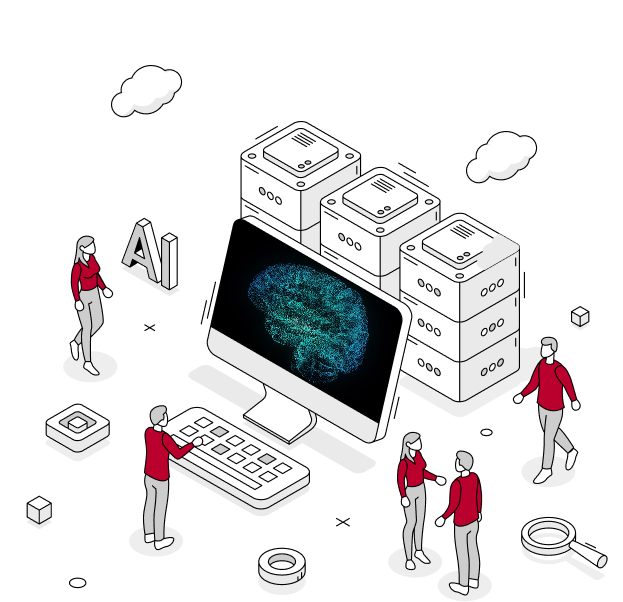
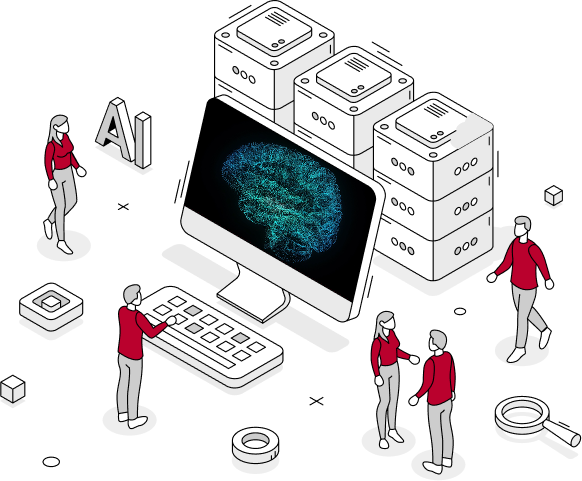
up

diff --git a/design-html/Assets/CSS/style.css b/design-html/Assets/CSS/style.css
@@ -1333,6 +1333,7 @@ a {
 
 .login-wrapper {
    z-index: 999999;
+   height: 100vh;
 }
 
 .login-wrapper .container {
@@ -1344,7 +1345,14 @@ a {
    z-index: 1;
    left: 0;
    top: 0;
-   height: 100vh;
+   height: 100%;
+}
+
+.login-wrapper .red-ab-right {
+   z-index: 1;
+   right: 0;
+   top: -40px;
+   height: 100%;
 }
 
 .login-wrapper .form-area h2 {
@@ -1375,6 +1383,12 @@ a {
    background-color: transparent;
 }
 
+.login-wrapper .form-area form .pass-field img {
+   right: 20px;
+   top: 20px;
+   cursor: pointer;
+}
+
 .login-wrapper .form-area form input::placeholder {
    font-family: Albert Sans;
    font-weight: 400;
@@ -1382,6 +1396,10 @@ a {
    line-height: 20px;
    letter-spacing: 0%;
    color: #FFD6E0;
+}
+
+.login-wrapper .form-area form .link-area .label-input {
+   gap: 13px;
 }
 
 .login-wrapper .form-area form .link-area label {
@@ -1394,8 +1412,7 @@ a {
 }
 
 .login-wrapper .form-area form .link-area input[type="checkbox"] {
-   appearance: none;
-   -webkit-appearance: none;
+   accent-color: #000;
    width: 18px;
    height: 18px;
    border: 1px solid #FFC0C0;
@@ -1403,9 +1420,172 @@ a {
    border-radius: 4px;
    cursor: pointer;
    position: relative;
+   margin: 0;
    padding: 0;
 }
 
-.login-wrapper .form-area form .link-area input[type="checkbox"]:checked{
-    accent-color: #FFC0C0;
+.login-wrapper .form-area form .link-area a {
+   font-family: Albert Sans;
+   font-weight: 400;
+   font-size: 14px;
+   line-height: 20px;
+   letter-spacing: 0%;
+   color: #FFADC0;
+}
+
+.login-wrapper .form-area form button {
+   background: #FFFFFF;
+   border-radius: 9px;
+   padding: 17px 0;
+   width: 100%;
+   border: none;
+   font-family: Mulish;
+   font-weight: 700;
+   font-size: 16px;
+   line-height: 20px;
+   letter-spacing: 0%;
+   color: #BA012D;
+   margin-bottom: 45px;
+}
+
+.login-wrapper .form-area .bottom-links {
+   gap: 6px;
+}
+
+.login-wrapper .form-area .bottom-links p {
+   font-family: Albert Sans;
+   font-weight: 400;
+   font-size: 16px;
+   line-height: 20px;
+   letter-spacing: 0%;
+   color: #FFADC0;
+   margin: 0;
+}
+
+.login-wrapper .form-area .bottom-links a {
+   font-family: Albert Sans;
+   font-weight: 700;
+   font-size: 16px;
+   line-height: 20px;
+   letter-spacing: 0%;
+   color: #FFFFFF;
+}
+
+.login-wrapper .right-wrap p {
+   font-family: Inter;
+   font-weight: 400;
+   font-size: 10px;
+   line-height: 140%;
+   letter-spacing: 0%;
+   color: #444444;
+   width: 100%;
+   display: flex;
+   justify-content: flex-end;
+   padding-top: 75px;
+   margin: 0;
+}
+
+.login-wrapper .right-wrap .main-img {
+   max-width: 580px;
+}
+
+.img-area {
+   position: relative;
+   overflow: hidden;
+   /* keeps clouds from spilling outside the artwork */
+}
+
+.cloud {
+   position: absolute;
+   width: 72px;
+   /* adjust to match cloud size in your design */
+   pointer-events: none;
+}
+
+.cloud-1 {
+   top: 0;
+   left: 60px;
+   width: 72px;
+   animation: cloud-1-slide 3s ease-in-out infinite;
+}
+
+@keyframes cloud-1-slide {
+   0% {
+      transform: translateX(0);
+      opacity: 0;
+   }
+
+   15% {
+      opacity: 1;
+   }
+
+   45% {
+      transform: translateX(100px);
+      opacity: 1;
+   }
+
+   55% {
+      transform: translateX(100px);
+      opacity: 1;
+   }
+
+   85% {
+      transform: translateX(0);
+      opacity: 0;
+   }
+
+   100% {
+      transform: translateX(0);
+      opacity: 0;
+   }
+}
+
+.cloud-2 {
+   top: 40px;
+   right: 0;
+   width: 72px;
+   animation: cloud-2-slide 3s ease-in-out infinite;
+}
+
+@keyframes cloud-2-slide {
+   0% {
+      transform: translateX(0);
+      opacity: 0;
+   }
+
+   15% {
+      opacity: 1;
+   }
+
+   45% {
+      transform: translateX(-100px);
+      opacity: 1;
+   }
+
+   55% {
+      transform: translateX(-100px);
+      opacity: 1;
+   }
+
+   85% {
+      transform: translateX(0);
+      opacity: 0;
+   }
+
+   100% {
+      transform: translateX(0);
+      opacity: 0;
+   }
+}
+
+.screen-video {
+   position: absolute;
+   top: 30%;
+   left: 31%;
+   width: 25%;
+   height: 21%;
+   object-fit: cover;
+   border-radius: 4px;
+   transform: rotate(30deg);
+   z-index: 1;
 }

diff --git a/design-html/login.html b/design-html/login.html
@@ -25,19 +25,22 @@
 </head>
 
 <body>
-    <div class="login-wrapper position-relative overflow-hidden">
+    <div class="login-wrapper position-relative">
         <img src="assets/images/ab-red.png" alt="" class="position-absolute red-ab-left">
         <div class="container position-relative">
-            <div class="row align-items-center justify-content-between">
+            <div class="row align-items-center justify-content-between vh-100">
                 <div class="col-md-3">
                     <div class="form-area">
                         <a href="#"><img src="assets/images/login-logo.png" alt=""></a>
                         <h2>Welcome back!</h2>
                         <form action="" class="d-flex flex-column">
                             <input type="text" placeholder="Email Address">
-                            <input type="password" placeholder="Password">
+                            <div class="pass-field position-relative w-100">
+                                 <input type="password" placeholder="Password" class="w-100">
+                                 <img src="assets/images/eye.png" alt="" class="position-absolute">
+                            </div>
                             <div class="link-area d-flex align-items-center justify-content-between">
-                                <div class="label-input">
+                                <div class="label-input d-flex align-items-center">
                                     <input type="checkbox">
                                     <label for="">Remember me</label>
                                 </div>
@@ -52,10 +55,21 @@
                     </div>
                 </div>
                 <div class="col-md-6">
-                    <img src="assets/images/ai-login.png" alt="" class="w-100">
+                    <div class="right-wrap">
+                        <div class="img-area position-relative">
+                            <img src="assets/images/ai-login.png" alt="" class="w-100 main-img">
+                            <video class="screen-video" autoplay muted loop playsinline>
+                                <source src="assets/images/ai-login-video.mp4" type="video/mp4">
+                            </video>
+                            <img src="assets/images/cloud.png" alt="" class="cloud cloud-1">
+                            <img src="assets/images/cloud.png" alt="" class="cloud cloud-2">
+                        </div>
+                        <p>© Copyright AI Lab. 2025.</p>
+                    </div>
                 </div>
             </div>
         </div>
+        <img src="assets/images/ab-red-right.png" alt="" class="position-absolute red-ab-right">
     </div>
 
     <script src="https://cdn.jsdelivr.net/npm/bootstrap@5.3.3/dist/js/bootstrap.bundle.min.js"></script>